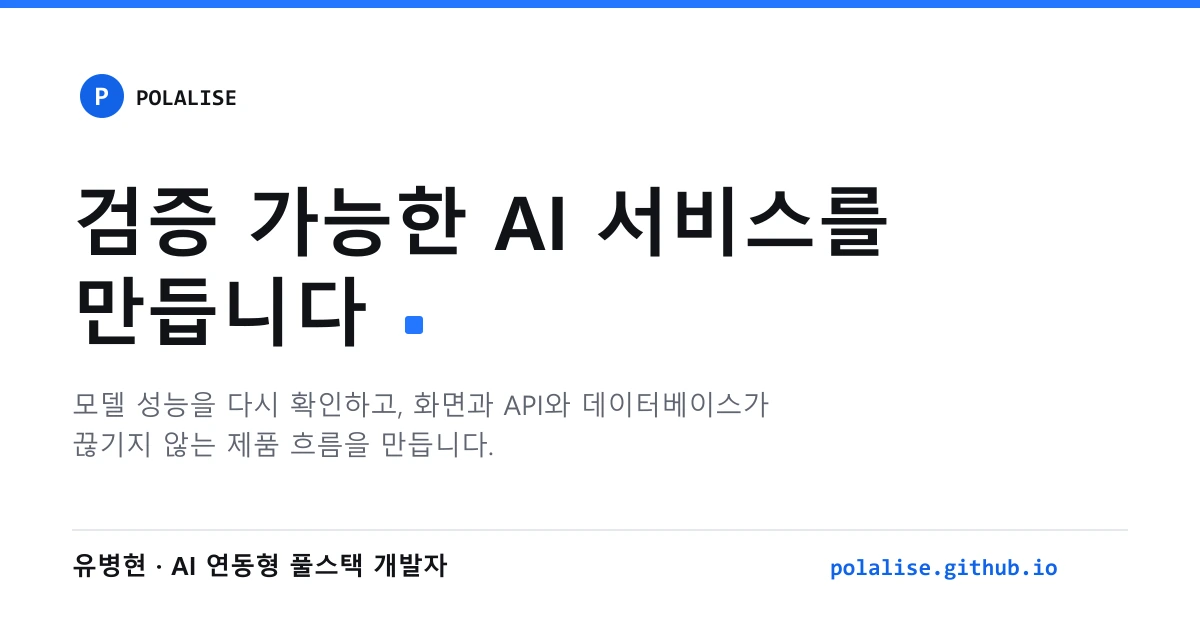
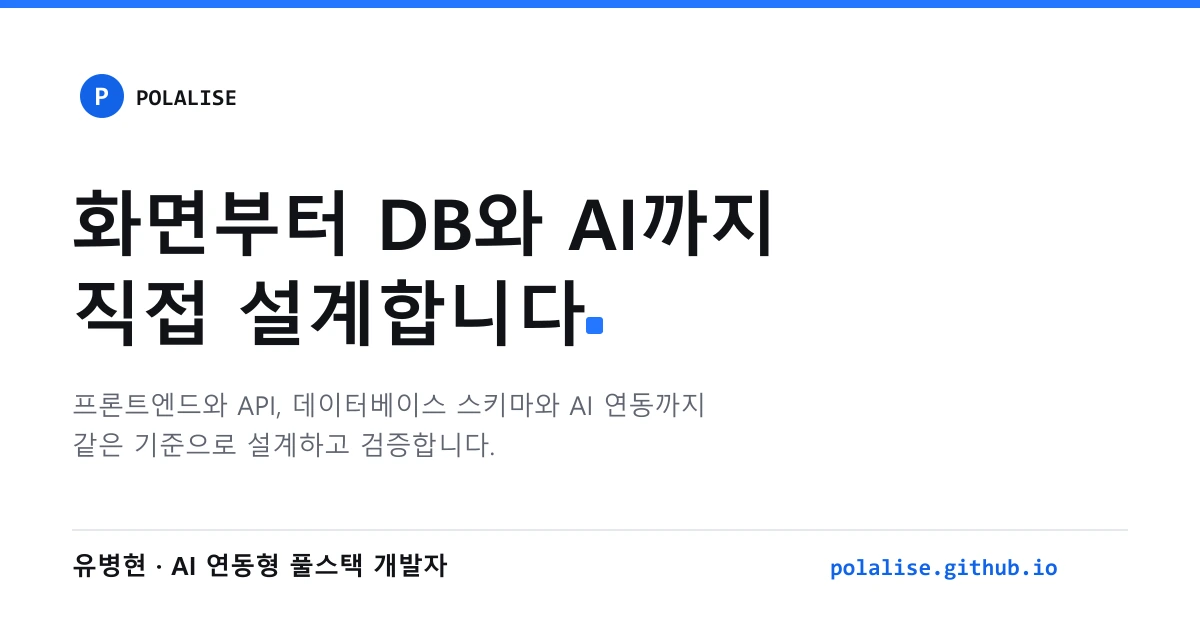
feat: 히어로 문구를 전 계층 설계 역량 중심으로 교체
"검증 가능한 AI 서비스를 만듭니다" 는 추상적이고 무엇을 검증하는지
드러나지 않았다. 프론트엔드에서 DB 스키마와 AI 연동까지 직접 설계한
범위가 실제 강점이라 그 폭이 먼저 읽히도록 바꿨다.

- 제목: 화면부터 DB와 AI까지 / 직접 설계합니다
- 리드: 프론트엔드와 API, 데이터베이스 스키마와 AI 연동까지 같은
  기준으로 설계하고 검증합니다
- 사이트 기본 description 과 푸터 태그라인도 같은 포지셔닝으로 맞췄다
- OG 이미지를 새 문구로 재생성 (1200x630 유지)

줄바꿈 처리:
- 고정 br 을 없애고 48rem 이상에서만 두 줄로 끊는 span 으로 바꿨다.
  좁은 화면에서는 자연스럽게 흘러간다
- 첫 줄이 14자로 길어져 5:7 그리드에서는 컬럼이 530px 뿐이라
  "AI까지" 가 고아 줄로 떨어졌다. 6:6 으로 넓히고 제목 최대 크기를
  62px 로 낮춰 1024px 이상 어느 폭에서도 두 줄로 떨어지게 했다

검증: npm run build PASS / npm test 13/13 / npm run test:browser 39/39
1440·1024·390px 에서 줄 수를 직접 계측해 확인

Changed region(s): [[0.0617, 0.2714, 0.74, 0.573], [0.0617, 0.6032, 0.6475, 0.7238]]

diff --git a/src/styles/global.css b/src/styles/global.css
@@ -1286,18 +1286,22 @@ button {
    기존 .hero* 는 404 페이지가 계속 사용하므로 지우지 않고 d2- 네임스페이스로 분리했다.
    --------------------------------------------------------------------------- */
 
+/* 헤드라인 첫 줄이 14자라 5:7 로는 컬럼이 530px 밖에 안 돼 "AI까지"가 고아 줄로 떨어졌다.
+   6:6 으로 넓혀 첫 줄이 한 줄에 들어가게 한다. */
 .d2-hero__inner {
   display: grid;
-  grid-template-columns: minmax(0, 5fr) minmax(0, 7fr);
+  grid-template-columns: minmax(0, 6fr) minmax(0, 6fr);
   column-gap: clamp(2rem, 5vw, 4.5rem);
   row-gap: clamp(2.5rem, 5vw, 4rem);
   align-items: center;
   padding-block: clamp(3.5rem, 7vw, 6.5rem) clamp(3rem, 5vw, 4.5rem);
 }
 
+/* 첫 줄 "화면부터 DB와 AI까지" 는 약 10.2em 폭이다. 1024px 이상에서 컬럼이 471~672px 이므로
+   최대 3.9rem(62px) 이면 어느 폭에서도 한 줄에 들어간다. 명세 10절 범위(60~94px) 안이다. */
 .d2-hero__copy h1 {
   margin: 1.1rem 0 1.35rem;
-  font-size: clamp(2.9rem, 5.4vw, 5.5rem);
+  font-size: clamp(2.5rem, 4.3vw, 3.9rem);
   font-weight: 800;
   letter-spacing: -.045em;
   line-height: 1.06;
@@ -1306,6 +1310,18 @@ button {
 
 .d2-dot {
   color: var(--accent);
+}
+
+/* 좁은 화면에서는 자연스럽게 흘려보내고, 48rem 이상에서만 의도한 두 줄로 끊는다.
+   br 을 고정으로 넣으면 모바일에서 어색한 위치에 줄이 끊긴다. */
+.d2-hero__copy h1 .d2-line {
+  display: inline;
+}
+
+@media (min-width: 48rem) {
+  .d2-hero__copy h1 .d2-line {
+    display: block;
+  }
 }
 
 .d2-hero__lead {
